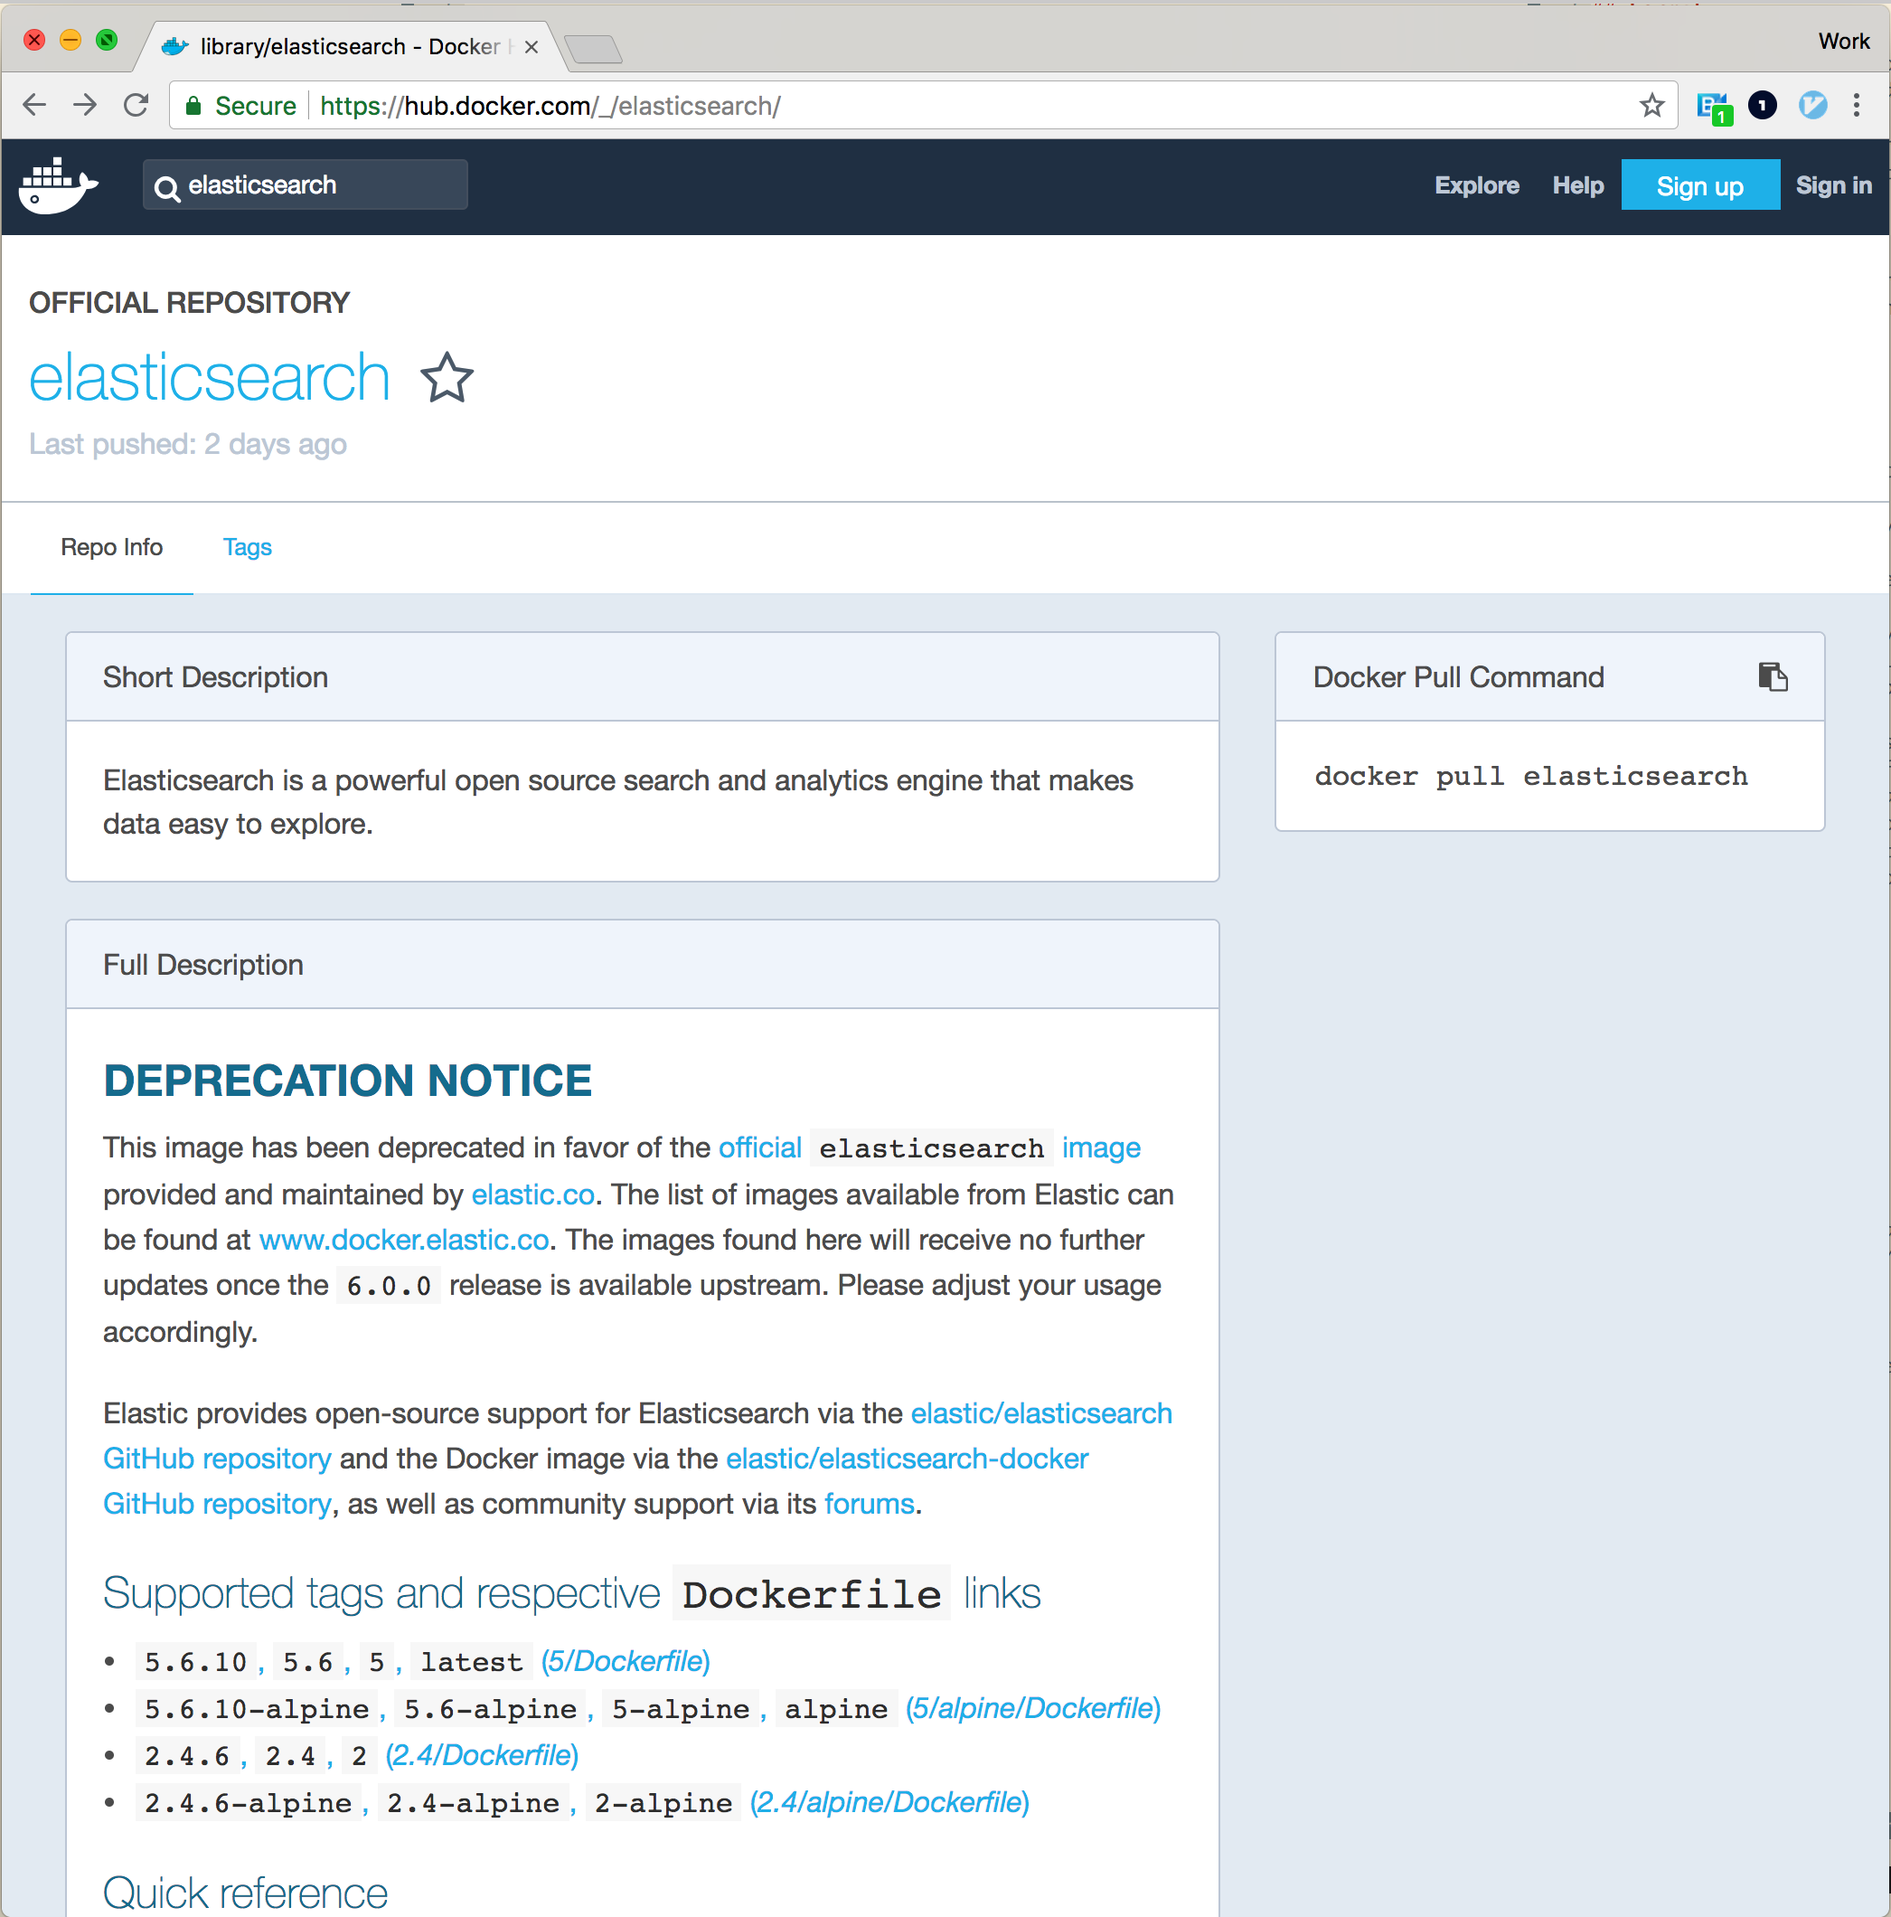
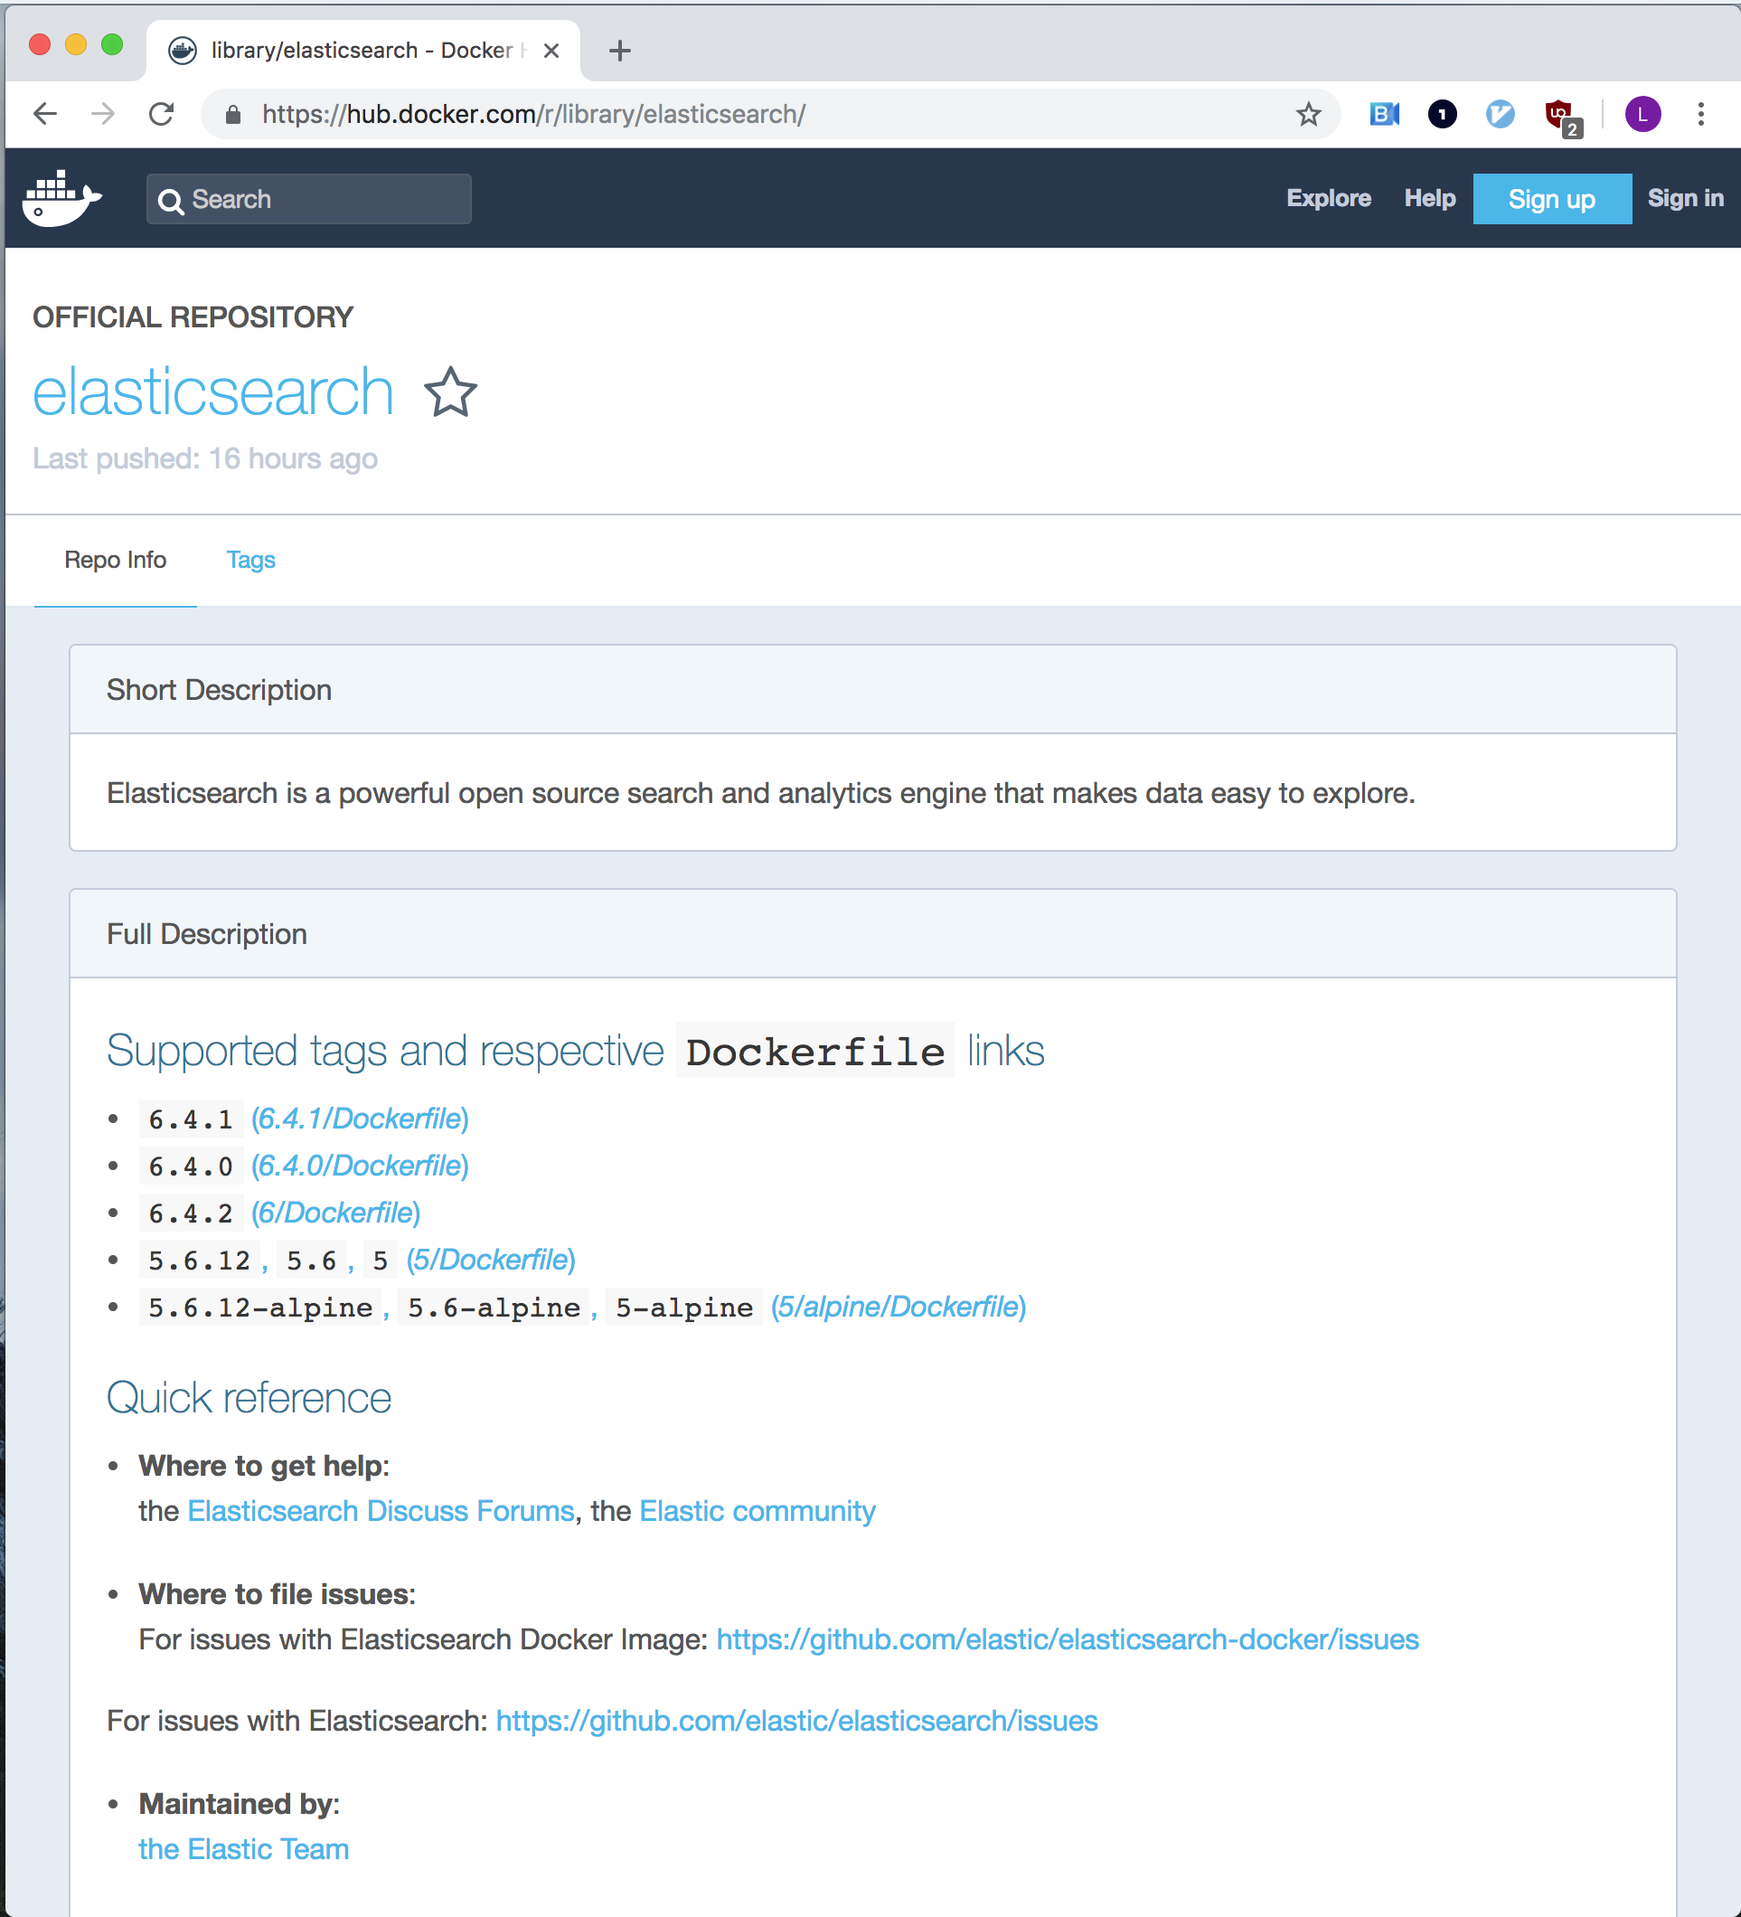
update elasticsearch tag

Changed region(s): [[0.0, 0.0, 1.0, 1.0], [0.3115, 0.934, 0.5607, 0.9651]]

diff --git a/README.md b/README.md
@@ -91,21 +91,17 @@ Elasticsearch developers build and maintain.
   versions) available for use. The `tags` tab contains a more exhaustive list of
   tags.
 
-  (__NOTE__: you'll see that the official Elasticsearch repo has been
-  deprecated because Elasticsearch has chosen to self-host its Docker
-  images--ignore for now).
-
   ![Official Elasticsearch Repo](https://github.com/leoyu037/docker_tutorial/blob/master/.readme-assets/official-elasticsearch-repo-screenshot.png)
-  > _Official Elasticsearch image repository on DockerHub (it's deprecated though)_
+  > _Official Elasticsearch image repository on DockerHub_
 
-- Let's download the latest Elasticsearch as our first image:
+- Let's download the a version of Elasticsearch as our first image:
 
   ```bash
   # On the command line:
-  > docker pull elasticsearch    # specifying an image with no tag defaults to 'latest'
+  > docker pull elasticsearch:6.4.1
 
-  # Or more explicitly:
-  > docker pull elasticsearch:latest
+  # [Don't do this] specifying an image with no tag defaults to 'latest'
+  > docker pull elasticsearch
   ```
 
   > Anyone can build and register public Docker images to DockerHub, but like
